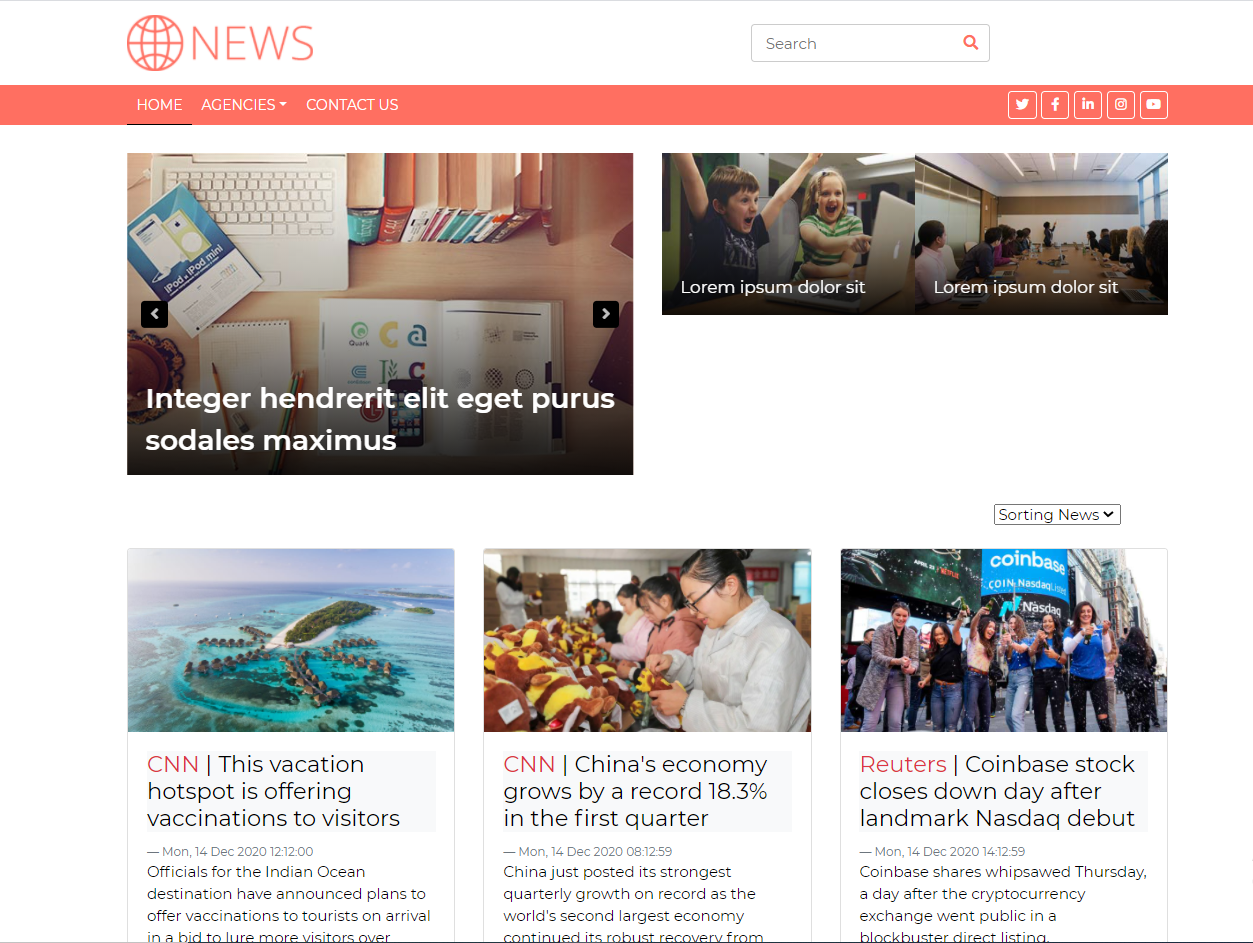
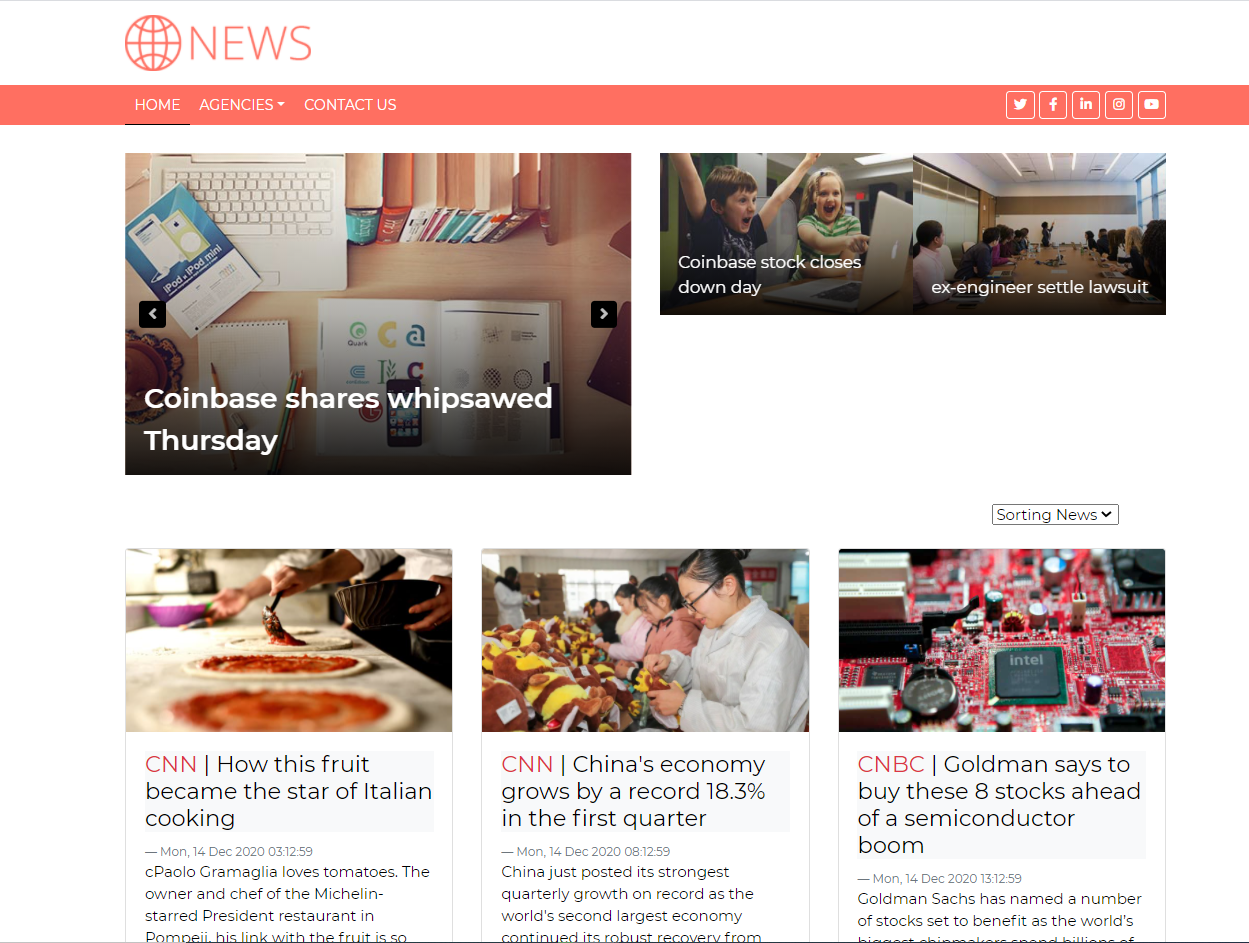
add demo

diff --git a/resources/views/layouts/navbar.blade.php b/resources/views/layouts/navbar.blade.php
@@ -9,12 +9,6 @@
                             </a>
                         </div>
                     </div>
-                    <div class="offset-4 col-lg-3 col-md-4">
-                        <div class="b-search">
-                            <input type="text" placeholder="Search">
-                            <button><i class="fa fa-search"></i></button>
-                        </div>
-                    </div>
                 </div>
             </div>
         </div>
@@ -65,7 +59,7 @@
                                 <div class="tn-img">
                                     <img src="img/news-825x525.jpg" />
                                     <div class="tn-title">
-                                        <a href="">Lorem ipsum dolor sit amet</a>
+                                        <a href="">Health officials say vaccines are crucial to ending the pandemic</a>
                                     </div>
                                 </div>
                             </div>
@@ -73,7 +67,7 @@
                                 <div class="tn-img">
                                     <img src="img/news-450x350-2.jpg" />
                                     <div class="tn-title">
-                                        <a  href="">Integer hendrerit elit eget purus sodales maximus</a>
+                                        <a  href="">Coinbase shares whipsawed Thursday</a>
                                     </div>
                                 </div>
                             </div>
@@ -85,7 +79,7 @@
                                 <div class="tn-img">
                                     <img src="img/news-350x223-3.jpg" />
                                     <div class="tn-title">
-                                        <a href="">Lorem ipsum dolor sit</a>
+                                        <a href="">Coinbase stock closes down day</a>
                                     </div>
                                 </div>
                             </div>
@@ -93,7 +87,7 @@
                                 <div class="tn-img">
                                     <img src="img/news-350x223-4.jpg" />
                                     <div class="tn-title">
-                                        <a href="">Lorem ipsum dolor sit</a>
+                                        <a href="">ex-engineer settle lawsuit</a>
                                     </div>
                                 </div>
                             </div>

diff --git a/README.md b/README.md
@@ -13,8 +13,7 @@ PHP , Laravel , Bootstrap
 ## Description
 
 <p>
-A news platform that is based on news agencies, It calls their daily news.
-I used json files as endpoint to call it and read data.
+Our dailynews website graps content from multiple agencies e.g. Reuters, CNBC, CNN,...etc that provide their latest news as json response with the ability to sort these news by their rate or by datetime
 </p>
 
 ## Clone or download
@@ -22,6 +21,10 @@ I used json files as endpoint to call it and read data.
 ```terminal
 $ git clone https://github.com/mariamelfeky/Tech-Task-Laravel.git
 ```
+
+## Website Demo
+
+https://drive.google.com/file/d/1rETl7D7bgUUzAjR-zMk5aJ-nV6R89-4y/view?usp=sharing
 
 ## Website Screenshots
 
